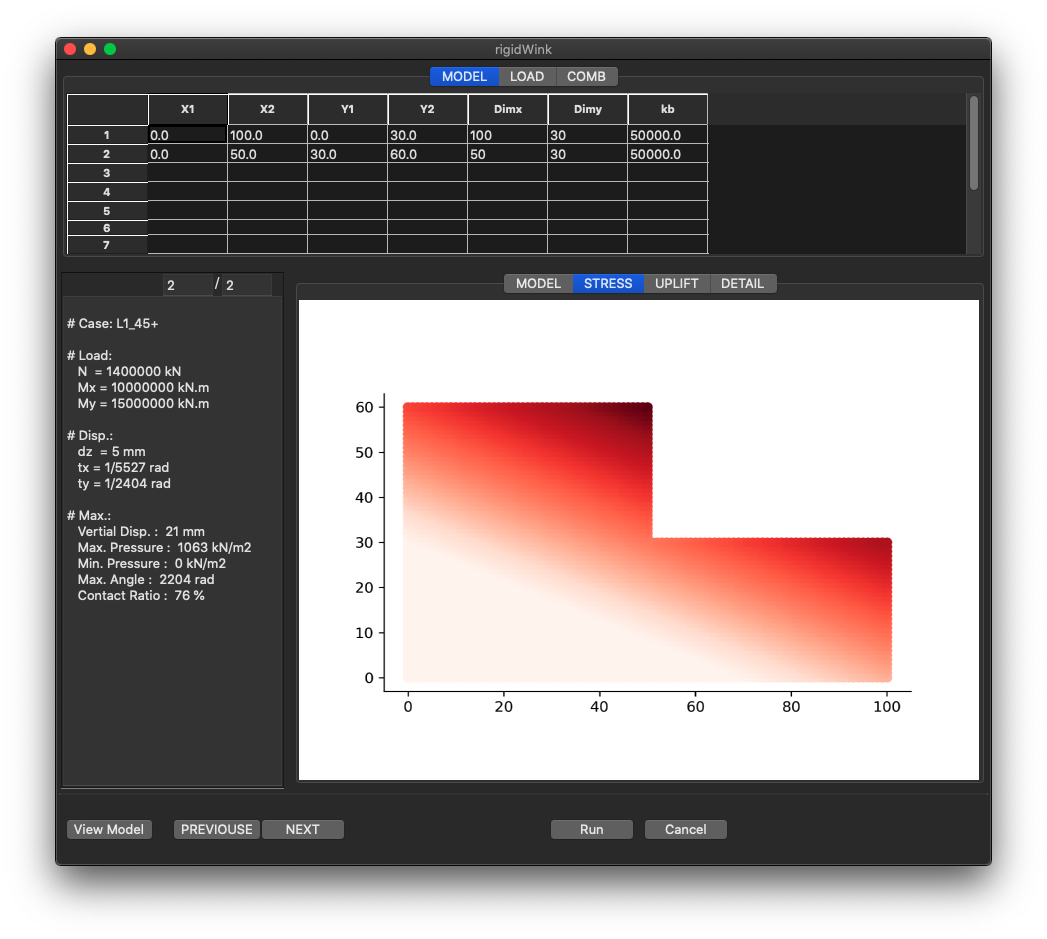
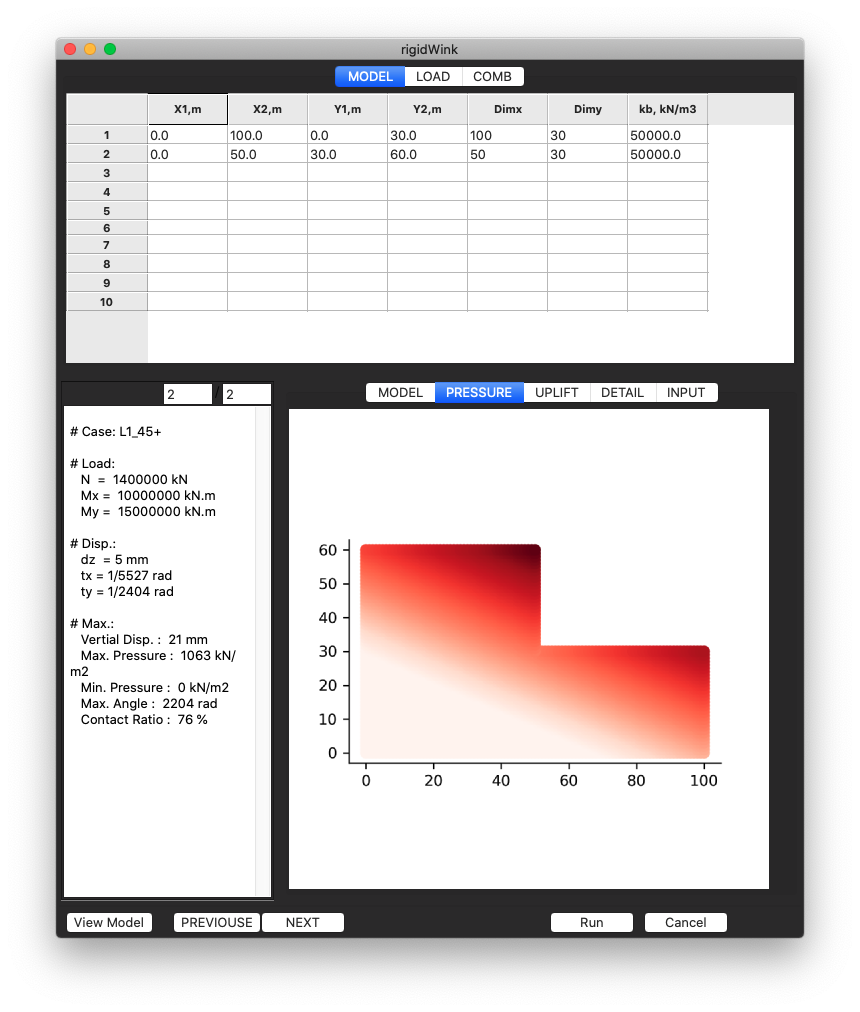
added pdf making function

diff --git a/main.py b/main.py
@@ -24,6 +24,8 @@ import rigidWink
 import openpyxl
 from openpyxl.utils import get_column_letter # 列幅の指定 2020/05/27
 
+# pdf export
+import report
 # begin wxGlade: dependencies
 # end wxGlade
 
@@ -97,6 +99,36 @@ class MyFrame(gui.MyFrame):
             print(err)
             return 0
 
+
+    # Export Pdf report
+    ########################################################################
+    def Export_pdf(self,event):
+
+        with wx.FileDialog(self, "Save Pdf File", wildcard="Input File (*.pdf)|*.pdf",
+                           style=wx.FD_SAVE | wx.FD_OVERWRITE_PROMPT) as fileDialog:
+            if fileDialog.ShowModal() == wx.ID_CANCEL:
+                return     # the user changed their mind
+            # save the current contents in the file
+            pathname = fileDialog.GetPath() # pdf file
+
+            try:
+                # テキストの読み込み
+                ########################################################################
+                #pdfFile = "test.pdf"
+                num = self.text_ctrl_total.GetValue()
+                num = int(num)+1
+                inputf = []
+                imagefile = []
+                for i in range(0,num):
+                    inputf.append("./db/result_" + str(i) + ".txt")
+                    imagefile.append("./db/result_" + str(i) + ".png")
+                    # イメージファイルの読み込み
+                    obj = report.Report()
+                    obj.create_pdf(inputf,imagefile,pathname)
+
+            except IOError:
+                wx.LogError("Cannot save current data in file '%s'." % pathname)
+
     # Export Excel Sheet
     ########################################################################
     def OnLoad(self,event):
@@ -160,15 +192,54 @@ class MyFrame(gui.MyFrame):
     def read_data_xlsx(self,inputFile):
         # data.xlsx からデータを読み込む
         # 戻り値 0: 失敗, 1: 成功
-        model = []
-        load = []
-        comb = []
+        row = 0
+        column = 0
         try:
             wb = openpyxl.load_workbook(inputFile)
-            model(list(wb['MODEL'].values))
-            load(list(wb['LOAD'].values))
-            comb(list(wb['COMB'].values))
-            print(model,load,comb)
+
+            ####################
+            # Model
+            #ws1 = wb.active
+            #ws1.title = 'MODEL'
+            ws1 = wb['MODEL']
+            for i in range(1,100):
+                if ws1.cell(row=i+1,column=1).value != None:
+                    for j in range(0,7):
+                        if ws1.cell(row=i+1,column=j+1).value != None:
+                            valuecell = str(ws1.cell(row=i+1,column=j+1).value)
+                            self.grid_model.SetCellValue(i-1,j,valuecell)
+                            print(valuecell)
+                else:
+                    break
+            ####################
+            # LOAD
+            #ws2 = wb.active
+            #ws2.title = 'LOAD'
+            ws2 = wb['LOAD']
+            for i in range(1,100):
+                if ws2.cell(row=i+1,column=1).value != None:
+                    for j in range(0,4):
+                        if ws2.cell(row=i+1,column=j+1).value != None:
+                            valuecell = str(ws2.cell(row=i+1,column=j+1).value)
+                            self.grid_load.SetCellValue(i-1,j,valuecell)
+                            print(valuecell)
+                else:
+                    break
+            ####################
+            # COMB
+            #ws3 = wb.active
+            #ws3.title = 'COMB'
+            ws3 = wb['COMB']
+            for i in range(1,100):
+                if ws3.cell(row=i+1,column=1).value != None:
+                    for j in range(0,9):
+                        if ws3.cell(row=i+1,column=j+1).value != None:
+                            valuecell = str(ws3.cell(row=i+1,column=j+1).value)
+                            self.grid_comb.SetCellValue(i-1,j,valuecell)
+                            print(valuecell)
+                else:
+                    break
+
             return 1
         except Exception as err:
             print(err)
@@ -345,13 +416,13 @@ class MyFrame(gui.MyFrame):
         # Stress
         data = "db/result_" + str(index) + ".png"
         image = wx.Image(data)
-        image = image.Scale(680,480,wx.IMAGE_QUALITY_HIGH)
+        image = image.Scale(480,480,wx.IMAGE_QUALITY_HIGH)
         bitmap = image.ConvertToBitmap()
         wx.StaticBitmap(self.panel_stress, -1, bitmap, pos=(0,0) )
         # Uplift
         data = "db/uplift_" + str(index) + ".png"
         image = wx.Image(data)
-        image = image.Scale(680,480,wx.IMAGE_QUALITY_HIGH)
+        image = image.Scale(480,480,wx.IMAGE_QUALITY_HIGH)
         bitmap = image.ConvertToBitmap()
         wx.StaticBitmap(self.panel_uplift, -1, bitmap, pos=(0,0) )
 
@@ -384,13 +455,13 @@ class MyFrame(gui.MyFrame):
         # Stress
         data = "db/result_" + str(index) + ".png"
         image = wx.Image(data)
-        image = image.Scale(680,480,wx.IMAGE_QUALITY_HIGH)
+        image = image.Scale(480,480,wx.IMAGE_QUALITY_HIGH)
         bitmap = image.ConvertToBitmap()
         wx.StaticBitmap(self.panel_stress, -1, bitmap, pos=(0,0) )
         # Uplift
         data = "db/uplift_" + str(index) + ".png"
         image = wx.Image(data)
-        image = image.Scale(680,480,wx.IMAGE_QUALITY_HIGH)
+        image = image.Scale(480,480,wx.IMAGE_QUALITY_HIGH)
         bitmap = image.ConvertToBitmap()
         wx.StaticBitmap(self.panel_uplift, -1, bitmap, pos=(0,0) )
 
@@ -564,6 +635,7 @@ class MyFrame(gui.MyFrame):
         for i in range(0,len(label)):
             obj.solve(label[i],i,n[i],mx[i],my[i])
 
+        """
         # モデルをcanvasに表示
         #print(obj.x,obj.y)
         self.matplotlib_axes.scatter(obj.x,obj.y,s=1,color="black")
@@ -573,8 +645,7 @@ class MyFrame(gui.MyFrame):
         self.matplotlib_axes.set_aspect('equal')
         self.matplotlib_canvas.draw()
         event.Skip()
-
-
+        """
         """
         # 画像をパネルに表示
         # Model
@@ -583,15 +654,20 @@ class MyFrame(gui.MyFrame):
         bitmap = image.ConvertToBitmap()
         wx.StaticBitmap(self.panel_disp, -1, bitmap, pos=(0,0) )
         """
+        # Model
+        image = wx.Image('db/model.png')
+        image = image.Scale(480,480,wx.IMAGE_QUALITY_HIGH)
+        bitmap = image.ConvertToBitmap()
+        wx.StaticBitmap(self.panel_model, -1, bitmap, pos=(0,0) )
 
         # Stress
         image = wx.Image('db/result_0.png')
-        image = image.Scale(680,480,wx.IMAGE_QUALITY_HIGH)
+        image = image.Scale(480,480,wx.IMAGE_QUALITY_HIGH)
         bitmap = image.ConvertToBitmap()
         wx.StaticBitmap(self.panel_stress, -1, bitmap, pos=(0,0) )
         # Uplift
         image = wx.Image('db/uplift_0.png')
-        image = image.Scale(680,480,wx.IMAGE_QUALITY_HIGH)
+        image = image.Scale(480,480,wx.IMAGE_QUALITY_HIGH)
         bitmap = image.ConvertToBitmap()
         wx.StaticBitmap(self.panel_uplift, -1, bitmap, pos=(0,0) )
 

diff --git a/gui.py b/gui.py
@@ -1,7 +1,7 @@
 #!/usr/bin/env python
 # -*- coding: UTF-8 -*-
 #
-# generated by wxGlade 0.9.6 on Sun Nov 15 20:47:11 2020
+# generated by wxGlade 0.9.6 on Sat Nov 21 09:02:26 2020
 #
 
 import wx
@@ -11,9 +11,6 @@ import wx.grid
 # end wxGlade
 
 # begin wxGlade: extracode
-import matplotlib
-from matplotlib.figure import Figure
-from matplotlib.backends.backend_wxagg import FigureCanvasWxAgg as FigureCanvas
 # end wxGlade
 
 
@@ -22,13 +19,15 @@ class MyFrame(wx.Frame):
         # begin wxGlade: MyFrame.__init__
         kwds["style"] = kwds.get("style", 0) | wx.DEFAULT_FRAME_STYLE
         wx.Frame.__init__(self, *args, **kwds)
-        self.SetSize((935, 827))
+        self.SetSize((748, 900))
         
         # Menu Bar
         self.frame_menubar = wx.MenuBar()
         self.Ctrl = wx.Menu()
         item = self.Ctrl.Append(wx.ID_ANY, "&Save as xlsx", "")
         self.Bind(wx.EVT_MENU, self.OnLoad, id=item.GetId())
+        item = self.Ctrl.Append(wx.ID_ANY, "&Export as pdf report", "")
+        self.Bind(wx.EVT_MENU, self.Export_pdf, id=item.GetId())
         item = self.Ctrl.Append(wx.ID_ANY, "&Import as xls", "")
         self.Bind(wx.EVT_MENU, self.OnImport, id=item.GetId())
         item = self.Ctrl.Append(wx.ID_ANY, "&Load Sample", "")
@@ -56,10 +55,7 @@ class MyFrame(wx.Frame):
         self.text_ctrl_result = wx.TextCtrl(self.panel_result, wx.ID_ANY, "Welcom to rigidWink!", style=wx.TE_MULTILINE | wx.TE_READONLY)
         self.notebook_2 = wx.Notebook(self, wx.ID_ANY)
         self.notebook_2_pane_2 = wx.Panel(self.notebook_2, wx.ID_ANY)
-        figure = self.matplotlib_figure = Figure()
-        # 1x1 grid, first subplot
-        self.matplotlib_axes = figure.add_subplot(111)
-        self.matplotlib_canvas = FigureCanvas(self.notebook_2_pane_2, wx.ID_ANY, figure)
+        self.panel_model = wx.Panel(self.notebook_2_pane_2, wx.ID_ANY)
         self.notebook_2_STRESS = wx.Panel(self.notebook_2, wx.ID_ANY)
         self.panel_stress = wx.Panel(self.notebook_2_STRESS, wx.ID_ANY)
         self.notebook_2_UPLIFT = wx.Panel(self.notebook_2, wx.ID_ANY)
@@ -117,7 +113,7 @@ class MyFrame(wx.Frame):
         self.grid_comb.SetColLabelValue(8, "")
         self.text_ctrl_index.SetMinSize((50, -1))
         self.text_ctrl_total.SetMinSize((50, -1))
-        self.panel_stress.SetMinSize((673, 397))
+        self.notebook_2.SetMinSize((520, 520))
         # end wxGlade
 
     def __do_layout(self):
@@ -154,7 +150,7 @@ class MyFrame(wx.Frame):
         sizer_6.Add(self.text_ctrl_result, 1, wx.EXPAND, 0)
         self.panel_result.SetSizer(sizer_6)
         sizer_2.Add(self.panel_result, 1, wx.ALL | wx.EXPAND, 5)
-        sizer_9.Add(self.matplotlib_canvas, 1, wx.EXPAND, 0)
+        sizer_9.Add(self.panel_model, 1, wx.EXPAND, 0)
         self.notebook_2_pane_2.SetSizer(sizer_9)
         sizer_4.Add(self.panel_stress, 1, wx.EXPAND, 0)
         self.notebook_2_STRESS.SetSizer(sizer_4)
@@ -181,7 +177,7 @@ class MyFrame(wx.Frame):
         sizer_5.Add((200, 20), 0, wx.ALIGN_CENTER_VERTICAL, 0)
         sizer_5.Add(self.button_3, 0, wx.ALIGN_CENTER_VERTICAL | wx.ALL, 5)
         sizer_5.Add(self.button_4, 0, wx.ALIGN_CENTER_VERTICAL | wx.ALL, 5)
-        sizer_1.Add(sizer_5, 1, wx.EXPAND, 0)
+        sizer_1.Add(sizer_5, 0, wx.EXPAND, 0)
         self.SetSizer(sizer_1)
         self.Layout()
         self.Centre()
@@ -189,6 +185,10 @@ class MyFrame(wx.Frame):
 
     def OnLoad(self, event):  # wxGlade: MyFrame.<event_handler>
         print("Event handler 'OnLoad' not implemented!")
+        event.Skip()
+
+    def Export_pdf(self, event):  # wxGlade: MyFrame.<event_handler>
+        print("Event handler 'Export_pdf' not implemented!")
         event.Skip()
 
     def OnImport(self, event):  # wxGlade: MyFrame.<event_handler>

diff --git a/rigidWink.py b/rigidWink.py
@@ -38,16 +38,7 @@ class Winkler:
             # m,m,m,m,kN/m2/m,-,-
             for i in range(0,len(xx1)):
                 self.creatMatrix(xx1[i],xx2[i],yy1[i],yy2[i],kb[i],ndimx[i],ndimy[i])
-            """
-            # Model save
-            plt.axes().spines['right'].set_visible(False)
-            plt.axes().spines['top'].set_visible(False)
-            plt.axes().set_aspect('equal')
-            plt.scatter(self.x,self.y, s=1,color="black")
-            plt.scatter(self.xg,self.yg, color="red")
-            fig.savefig("./db/model.png", format="png", dpi=300)
-            plt.close(fig)
-            """
+
 
             return 1
         except Exception as err:
@@ -69,7 +60,7 @@ class Winkler:
         plt.xlim(gmin-2,gmax+2)
         plt.ylim(gmin-2,gmax+2)
         """
-        fig = plt.figure()
+        fig = plt.figure(figsize=(4,4))
         plt.axes().spines['right'].set_visible(False)
         plt.axes().spines['top'].set_visible(False)
         plt.axes().set_aspect('equal')
@@ -296,11 +287,11 @@ class Winkler:
         lines += "\n"
         lines += "# Load:\n"
         lines += "   N  = "
-        lines += "{:.0f} kN\n".format(force[2])
+        lines += " {:.0f} kN\n".format(force[2])
         lines += "   Mx = "
-        lines += "{:.0f} kN.m\n".format(force[0])
+        lines += " {:.0f} kN.m\n".format(force[0])
         lines += "   My = "
-        lines += "{:.0f} kN.m\n".format(force[1])
+        lines += " {:.0f} kN.m\n".format(force[1])
 
         lines += "\n"
         lines += "# Disp.:\n"
@@ -339,8 +330,21 @@ class Winkler:
         plt.show()
         """
 
+        # Model Plot
+        fig = plt.figure(figsize=(4,4))
+        plt.axes().spines['right'].set_visible(False)
+        plt.axes().spines['top'].set_visible(False)
+        plt.axes().set_aspect('equal')
+        plt.tick_params(labelsize="9")
+        plt.scatter(self.x,self.y, s=1,color="black")
+        plt.scatter(self.xg,self.yg, color="red")
+        savefile = "./db/model.png"
+        fig.savefig(savefile, format="png", dpi=300)
+        plt.close(fig)
+
+
         # Uplift Spring plot
-        fig = plt.figure()
+        fig = plt.figure(figsize=(4,4))
         plt.axes().spines['right'].set_visible(False)
         plt.axes().spines['top'].set_visible(False)
         plt.axes().set_aspect('equal')
@@ -354,7 +358,7 @@ class Winkler:
         plt.close(fig)
 
         # Stress plot
-        fig = plt.figure()
+        fig = plt.figure(figsize=(4,4))
 
         plt.axes().spines['right'].set_visible(False)
         plt.axes().spines['top'].set_visible(False)
